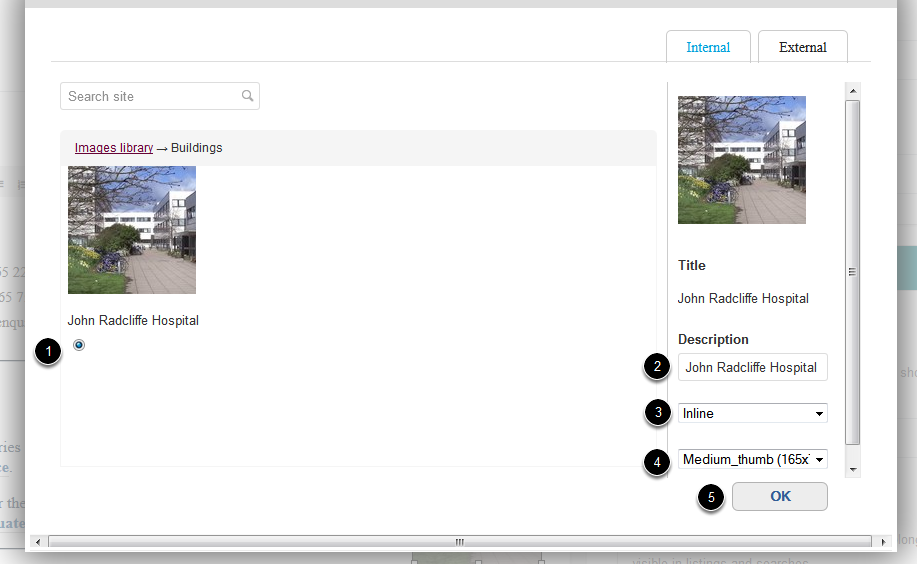
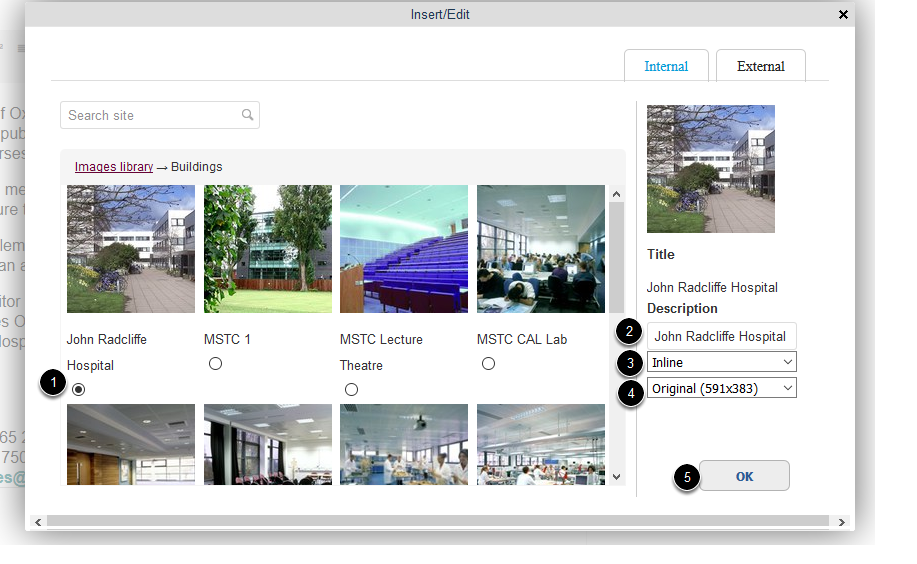
MSD site administrator
Adding additional homepage slideshow guides

diff --git a/content/add-a-slide-on-the-homepage.rst b/content/add-a-slide-on-the-homepage.rst
@@ -1,0 +1,92 @@
+Add a Slide to the Homepage Slideshow
+=====================================
+
+Images for the slideshow on the Skills Training Homepage are stored at: `https://www.medsci.ox.ac.uk/images/homepage <https://www.medsci.ox.ac.uk/images/homepage>`_
+
+This shows you how to add a new slide to the slideshow. You need to upload the image first and then pull it onto the slideshow. 
+
+Upload image
+------------
+
+.. image:: images/add-a-slide-on-the-homepage/upload-image.png
+   :alt: 
+   :height: 239px
+   :width: 364px
+   :align: center
+
+
+Go to the images section for the Skills Training slideshow: `https://www.medsci.ox.ac.uk/images/study/skills-training-slideshow <https://www.medsci.ox.ac.uk/images/study/skills-training-slideshow>`_. 
+
+To add a new image click **Add new...** from the toolbar at the top of the screen and select **Image**.
+
+.. image:: images/add-a-slide-on-the-homepage/519b12d0-315c-490e-8717-17873a349c23.png
+   :alt: 
+   :height: 1016px
+   :width: 683px
+   :align: center
+
+
+Enter the following information:
+
+#. Title - this forms the text on your slide.
+#. Click **Browse** and upload the image from your computer. The image should be 760px x 389px. The slideshow currently crops the bottom of the images slightly. 
+#. Copyright information.
+#. Web address of the page you would like the slide to link to. 
+#. Click **Save**. 
+
+Add slide to the homepage
+-------------------------
+
+.. image:: images/add-a-slide-on-the-homepage/add-slide-to-the-homepage.png
+   :alt: 
+   :height: 179px
+   :width: 397px
+   :align: center
+
+
+Go to the homepage and click **Compose** on the toolbar at the top of the page. 
+
+.. image:: images/add-a-slide-on-the-homepage/c0a23c91-33f4-4fbf-a5b9-68cf4e605728.png
+   :alt: 
+   :height: 406px
+   :width: 416px
+   :align: center
+
+
+Find the slide you just created. You can find it:
+
+#. In the list of recent items if you have just uploaded it.
+#. By searching for the item by the title in the search box.
+
+.. image:: images/add-a-slide-on-the-homepage/b279fa98-f18a-4280-aee0-a9dded10e32d.png
+   :alt: 
+   :height: 328px
+   :width: 834px
+   :align: center
+
+
+Select the image and drag it across to the slideshow.  
+
+Delete a slide
+--------------
+
+.. image:: images/add-a-slide-on-the-homepage/delete-a-slide.png
+   :alt: 
+   :height: 253px
+   :width: 337px
+   :align: center
+
+
+You will need to delete one of the existing slides as you can only have three slides on the slideshow.
+
+Hovering over the slideshow will bring up an **Edit** button in the top left corner. Click this button to open an editing window:
+
+.. image:: images/add-a-slide-on-the-homepage/57b81bbc-cff4-41d3-94ef-057ed3cee0ee.png
+   :alt: 
+   :height: 472px
+   :width: 860px
+   :align: center
+
+
+#. Scroll to the bottom of the window and click  the **x** next to the slide you would like to delete. 
+#. Click **Save**.

diff --git a/content/add-an-image-into-the-main-text-of-your-page.rst b/content/add-an-image-into-the-main-text-of-your-page.rst
@@ -1,7 +1,7 @@
 Add an Image into the Main Text of your Page
 ============================================
 
-This shows you how to add an image into the main text content of your page. You need to upload the image to the Image Library first. See the **Upload an Image to the Image Library** guide if you need instructions on how to do this. 
+This shows you how to add an image into the main text content of your page. You need to upload the image to the Image Library first. See the :doc:`**Upload an Image to the Image Library** <Upload_an_Image_to_the_Image_Library.html>` guide if you need instructions on how to do this. 
 
 Edit page
 ---------
@@ -15,7 +15,7 @@ Edit page
 
 Go to the page where you would like to add the image.
 
-Click on Edit. 
+Click **Edit**. 
 
 .. image:: images/add-an-image-into-the-main-text-of-your-page/media_1402383761268.png
    :alt: 
@@ -26,9 +26,8 @@ Click on Edit.
 
 Scroll down the page to the text editor.
 
-1. Place your cursor where you would like to insert the image.
-
-2. Click on the camera icon.
+#. Place your cursor where you would like to insert the image.
+#. Click the camera icon.
 
 Image Library
 -------------
@@ -54,27 +53,11 @@ Select image
    :align: center
 
 
-1. Select the image you would like to add.
-
-2. Enter a description.
-
-3. Select the spacing around the image. 
-
-4. Select the image size.
-
-5. Click on OK.
-
-Position image on page
-----------------------
-
-.. image:: images/add-an-image-into-the-main-text-of-your-page/position-image-on-page.png
-   :alt: 
-   :height: 370px
-   :width: 507px
-   :align: center
-
-
-To position the image right click on the image and go to **Alignment**. Select where you would like the image to be positioned.
+#. Select the image you would like to add.
+#. Enter a description.
+#. Select the position of the image. Ideally have all images on the right side of the page to have a consistent look and feel to pages. 
+#. Select the image size. If selecting one of the . will resize on the width of the page not
+#. Click OK.
 
 Save the page
 -------------
@@ -86,4 +69,4 @@ Save the page
    :align: center
 
 
-Click on the **Save** button.
+Click the **Save** button.

diff --git a/content/msd-site-administrators.rst b/content/msd-site-administrators.rst
@@ -10,7 +10,8 @@ MSD Site Administrators
    change-the-order---publication-date-of-a-news-item
    add-image-news-item.rst
    add-an-image-into-the-main-text.rst
-   change-slide-on-the-homepage.rst
+   add-a-slide-on-the-homepage.rst
+   change-the-order-of-slides-on-the-slideshow.rst
 
 
 
